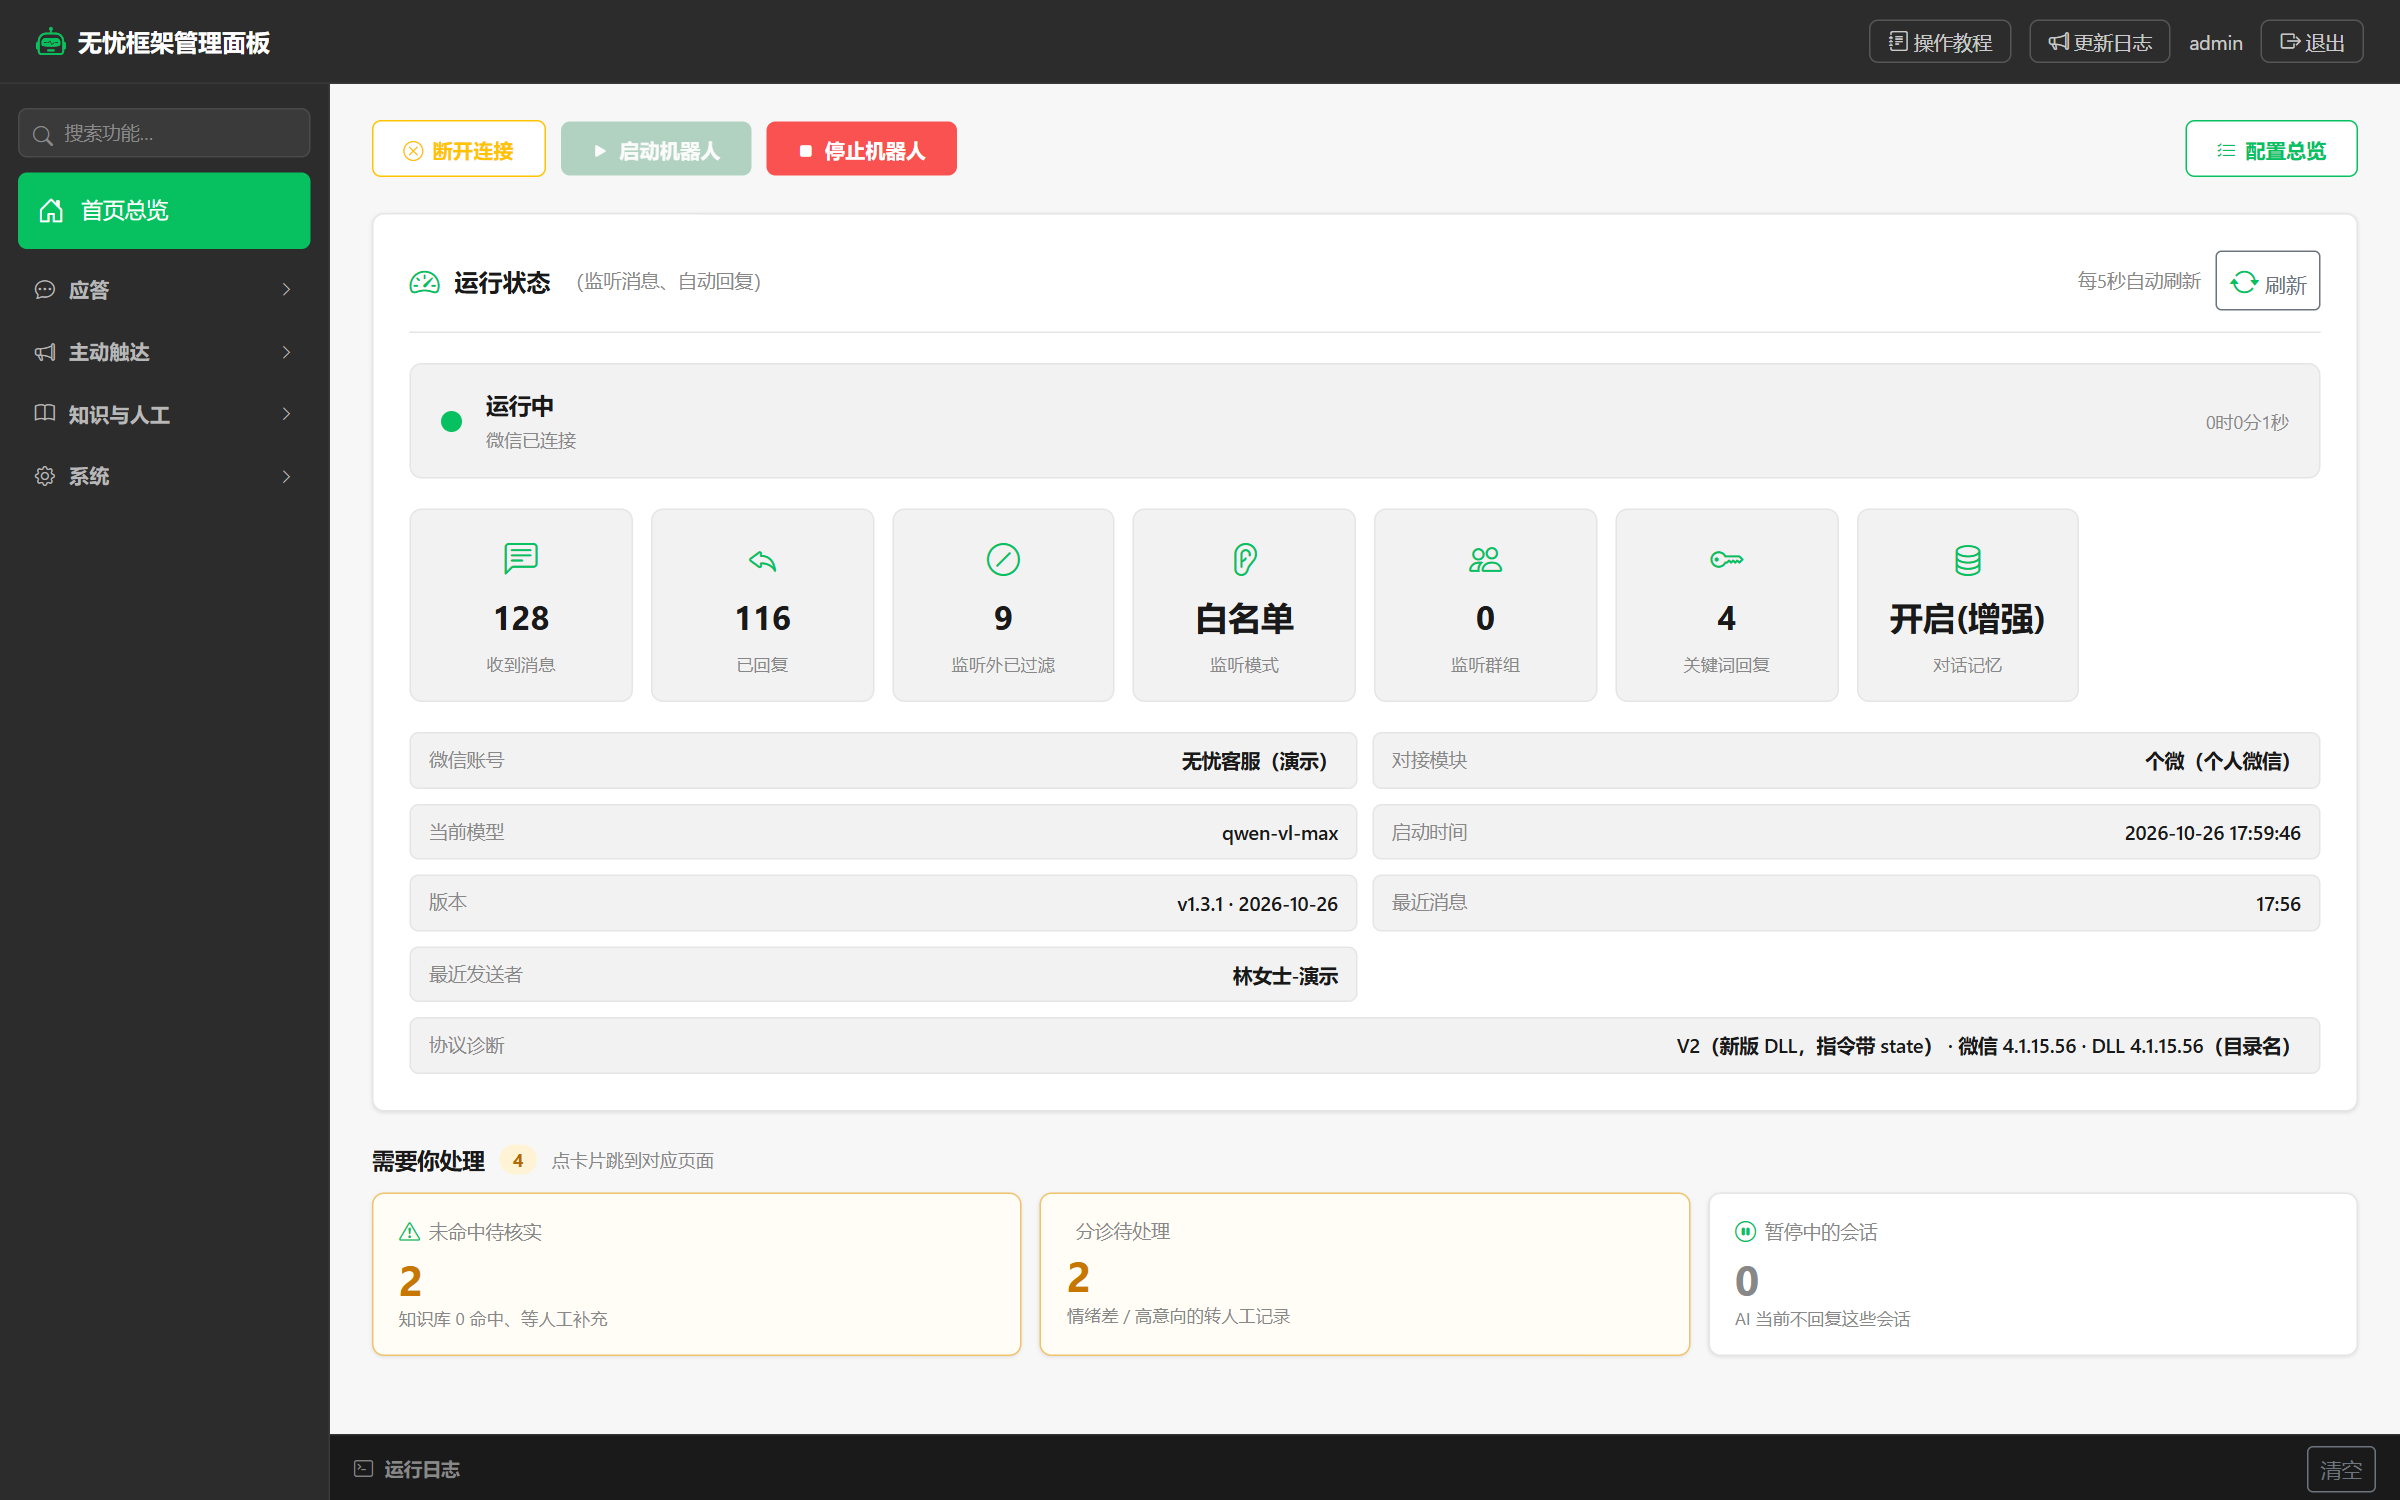
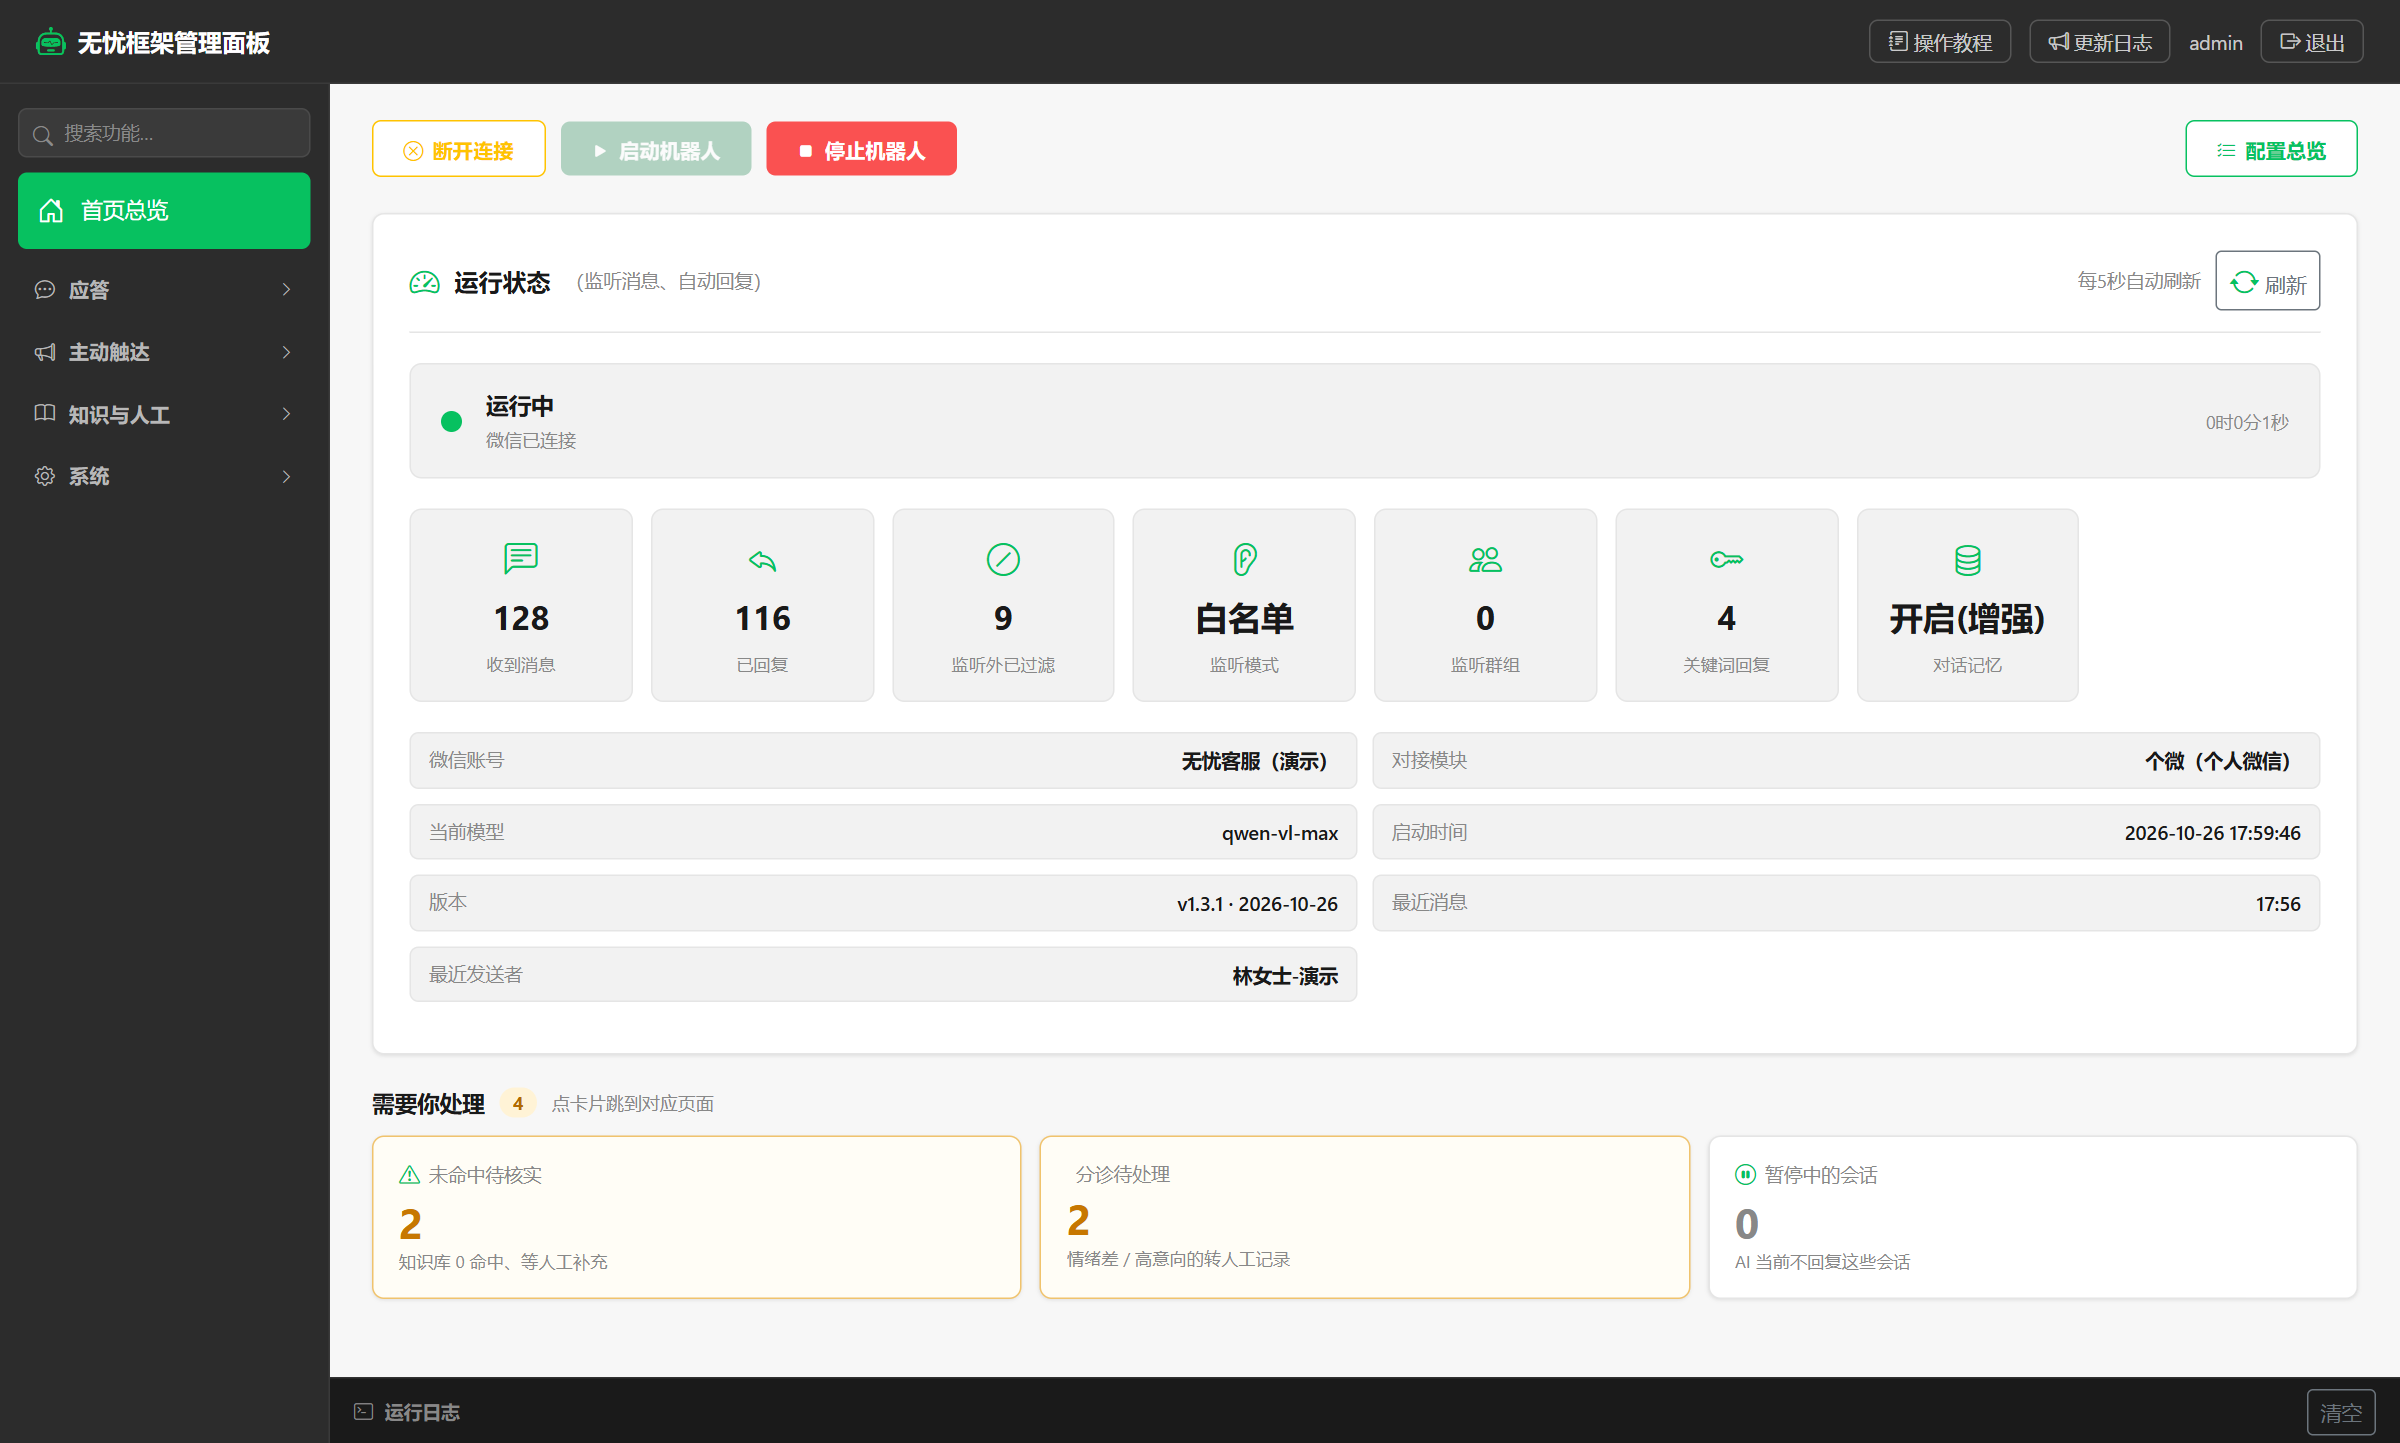
site: 首图更换为去协议诊断行的首页截图

diff --git a/index.html b/index.html
@@ -64,7 +64,7 @@
             <span class="dot"></span><span class="dot"></span><span class="dot"></span>
             <span class="browser-title">无忧面板 · 首页总览</span>
           </div>
-          <a class="shot-link" href="assets/shots/workbench.png" target="_blank" rel="noopener"><img src="assets/shots/workbench.png" width="2400" height="1500" alt="无忧面板首页总览：运行状态、收发统计与需要人工处理的事项" loading="eager"></a>
+          <a class="shot-link" href="assets/shots/workbench.png" target="_blank" rel="noopener"><img src="assets/shots/workbench.png" width="2400" height="1443" alt="无忧面板首页总览：运行状态、收发统计与需要人工处理的事项" loading="eager"></a>
         </div>
         <p class="hero-caption">首页总览：运行状态、收发统计与需要人工处理的事项。截图取自脱敏演示环境，点击图片可查看原始尺寸。</p>
       </div>
